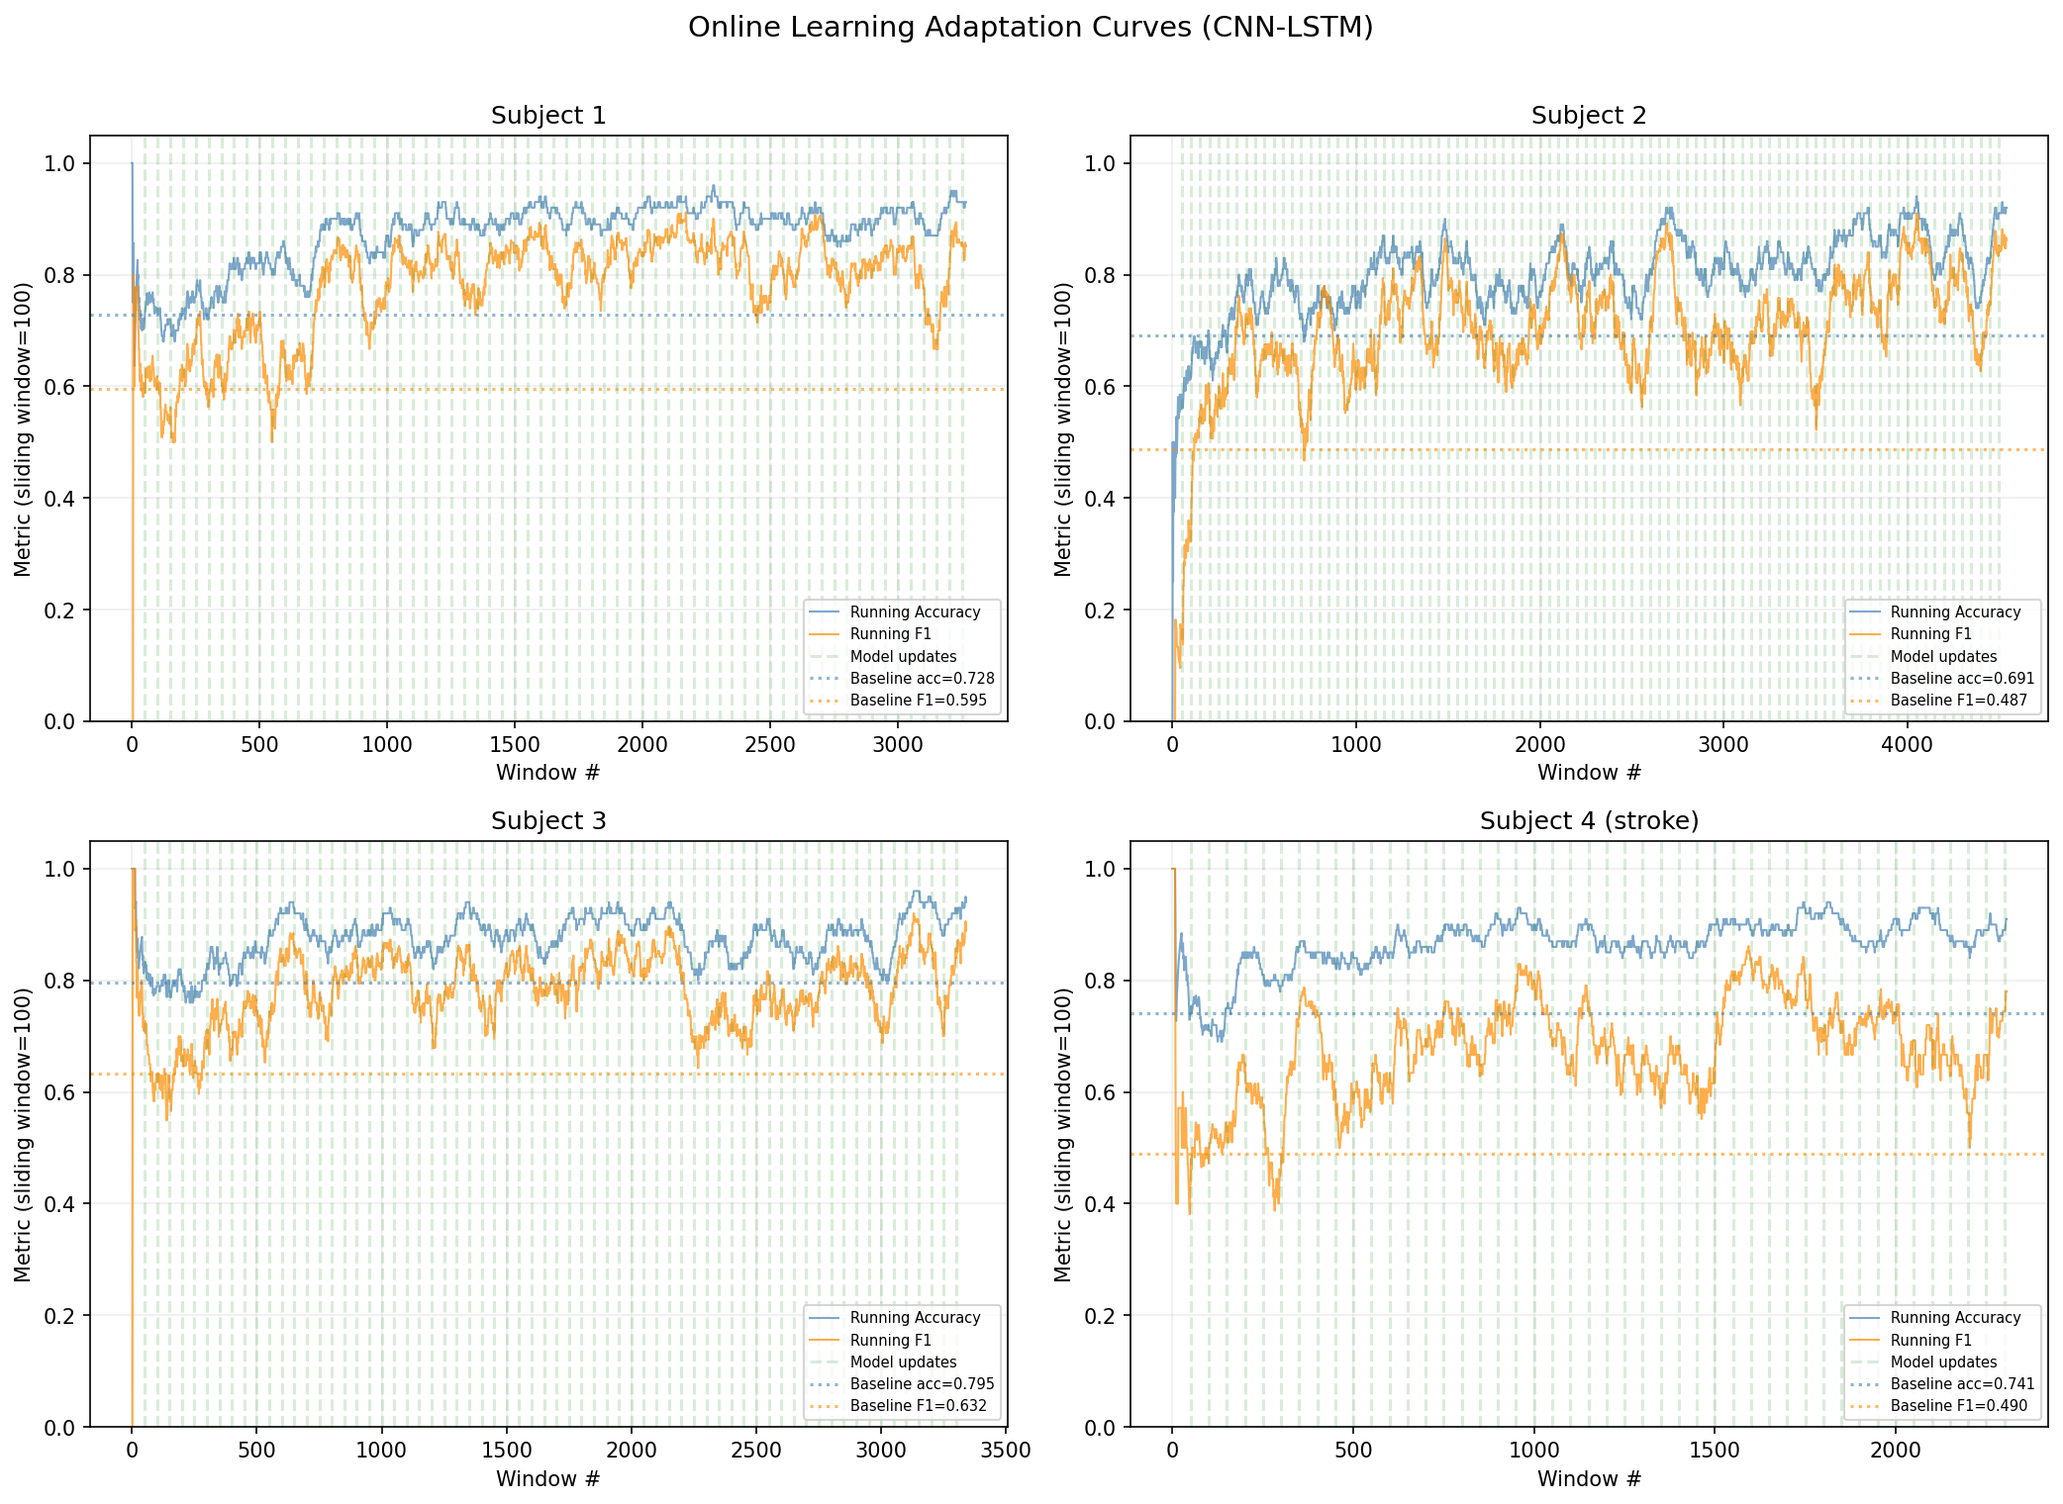
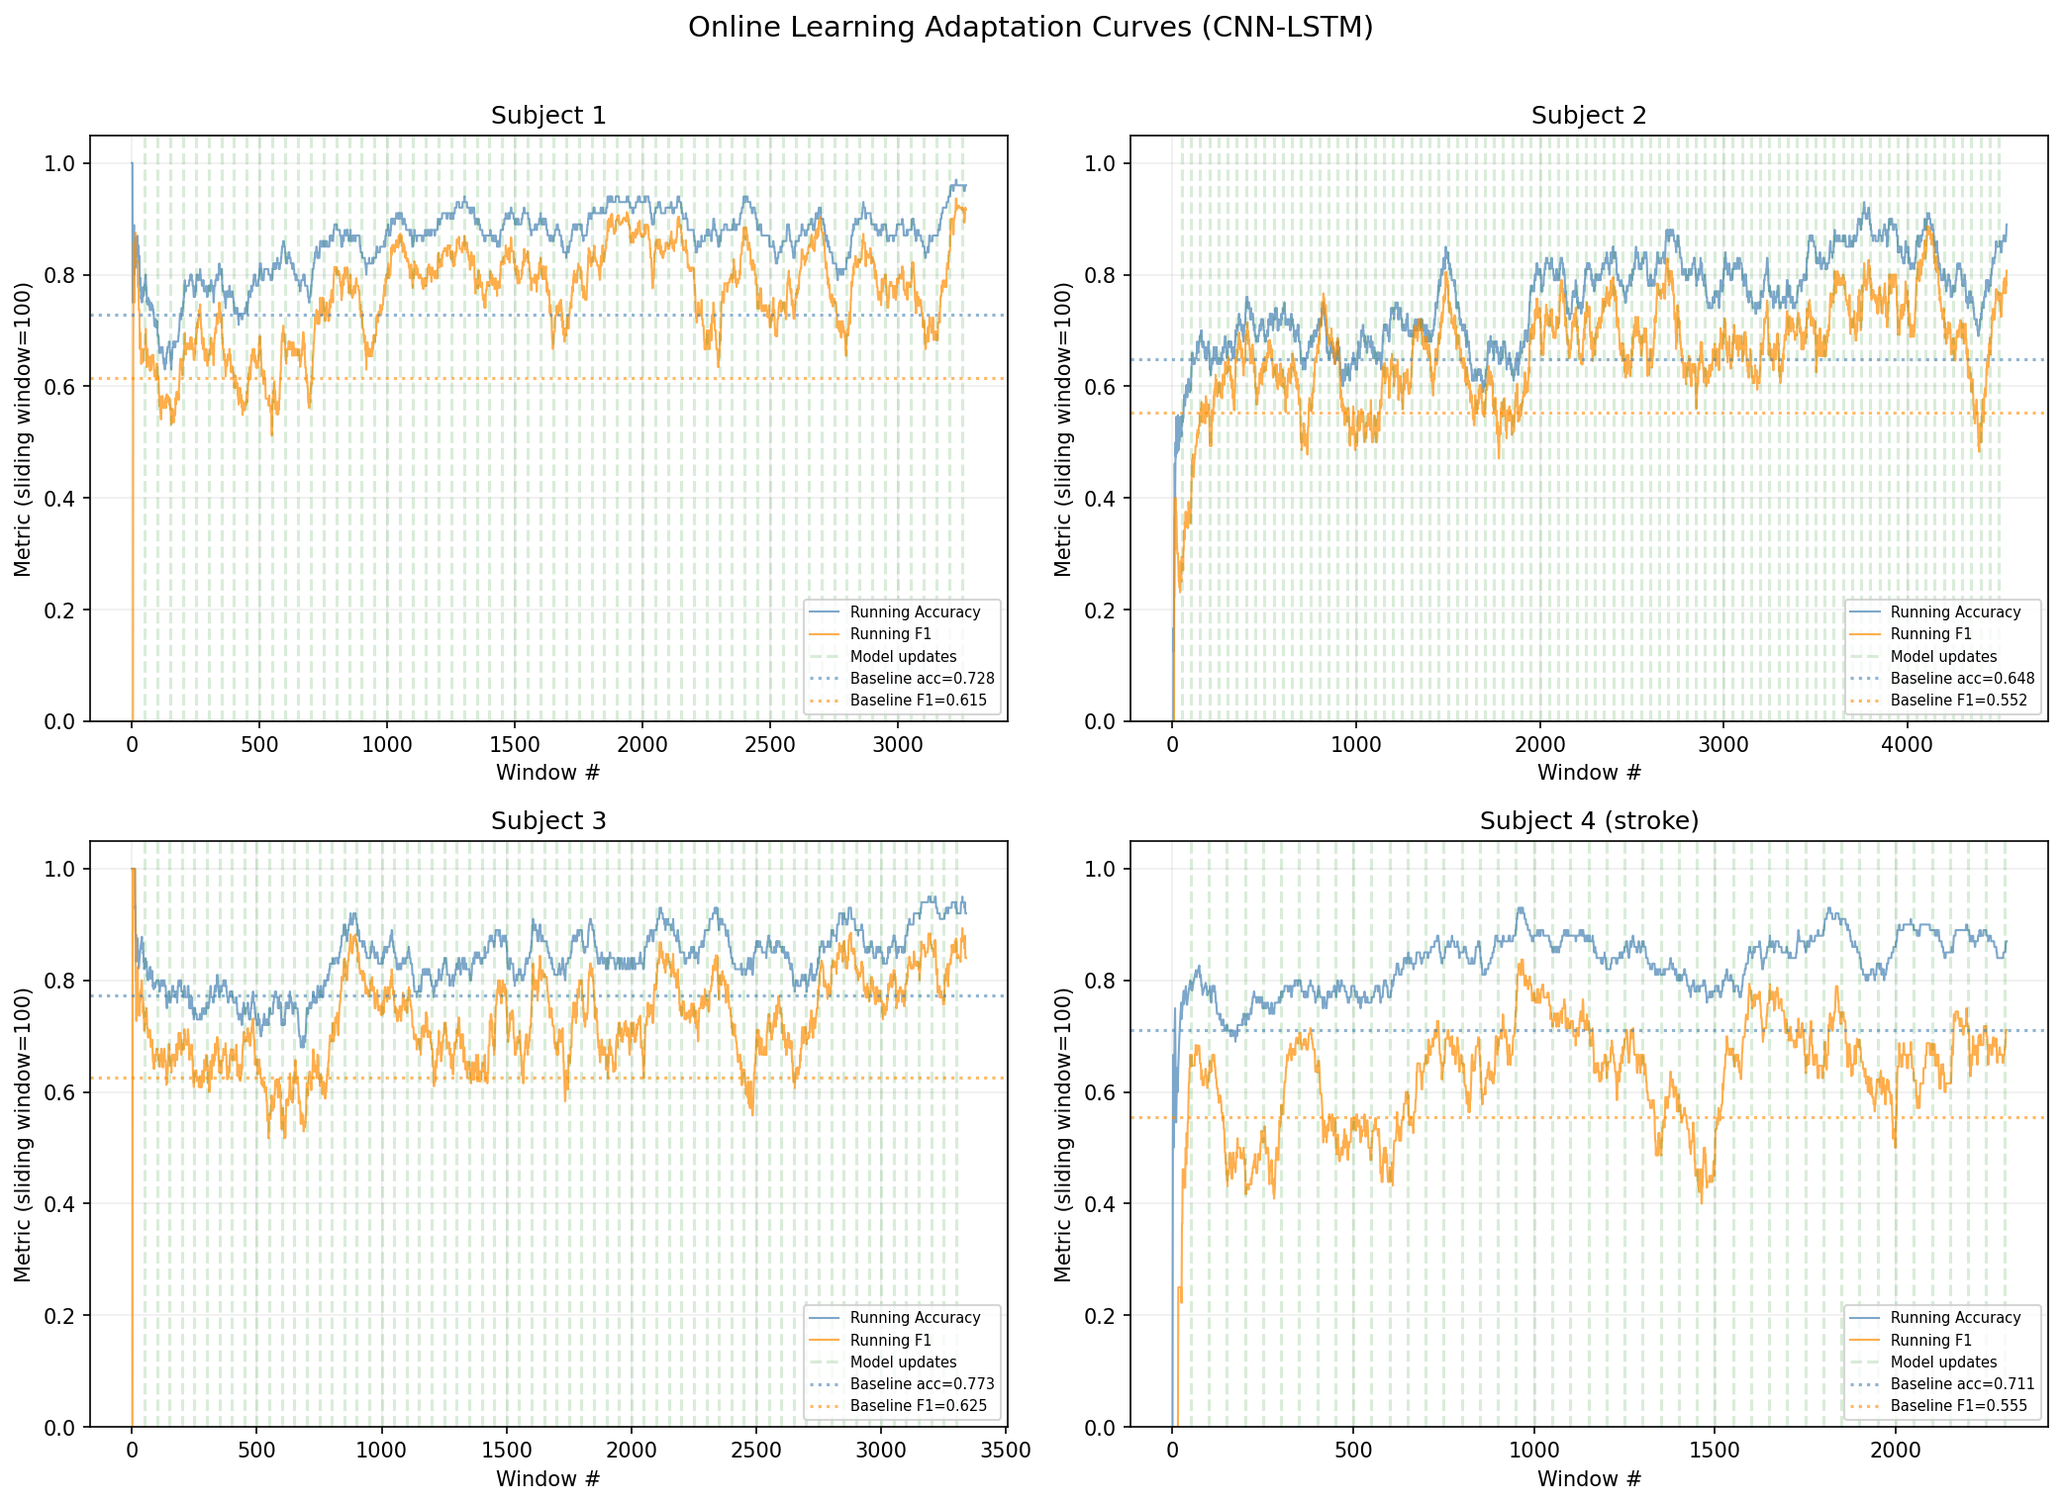
optimize inference/training loops, vectorize threshold search, and add time tracking/reporting

diff --git a/online_learning_cnn_lstm.py b/online_learning_cnn_lstm.py
@@ -10,9 +10,24 @@ import matplotlib
 matplotlib.use('Agg')
 import matplotlib.pyplot as plt
 import os
+import time
 
 os.environ['TF_CPP_MIN_LOG_LEVEL'] = '2'
 tf.get_logger().setLevel('ERROR')
+
+os.environ['CUDA_VISIBLE_DEVICES'] = '-1'
+tf.config.set_visible_devices([], 'GPU')
+
+# # def check_gpu():
+# #     gpus = tf.config.list_physical_devices('GPU')
+# #     if gpus:
+# #         print(f'  GPU detected: {gpus[0].name}')
+# #         for gpu in gpus:
+# #             tf.config.experimental.set_memory_growth(gpu, True)
+# #     else:
+# #         print('  WARNING: No GPU detected. Install tensorflow-macos and tensorflow-metal')
+# #         print('           for Apple Silicon acceleration.')
+# #     return len(gpus) > 0
 
 
 def load_data(path='labeled data 4 subjects.mat'):
@@ -21,6 +36,7 @@ def load_data(path='labeled data 4 subjects.mat'):
     for i in range(4):
         d = mat['data'][0, i]
         l = mat['labels'][0, i].flatten().astype(int)
+        # mat file nests each window in a cell array, have to unpack per-element
         sX.append(np.array([d[j, 0] for j in range(d.shape[0])]))
         sy.append(l)
     return sX, sy
@@ -42,11 +58,18 @@ def build_cnn_lstm(input_shape=(100, 8)):
 
 
 def cw(y):
-    # max(..., 1) guards against zero-division when a class is absent in small buffers
+    # max 1 to avoid zero-div when a class is missing in tiny buffers
     n0 = max(np.sum(y == 0), 1)
     n1 = max(np.sum(y == 1), 1)
     t = len(y)
     return {0: t / (2 * n0), 1: t / (2 * n1)}
+
+
+def fmt_time(seconds):
+    if seconds < 60:
+        return f'{seconds:.1f}s'
+    m, s = divmod(int(seconds), 60)
+    return f'{m}m {s:02d}s'
 
 
 def train_base(X_tr, y_tr, X_val, y_val, seed=42):
@@ -55,7 +78,8 @@ def train_base(X_tr, y_tr, X_val, y_val, seed=42):
     m = build_cnn_lstm()
     m.compile(optimizer=tf.keras.optimizers.Adam(1e-3),
               loss='binary_crossentropy', metrics=['accuracy'])
-    m.fit(X_tr, y_tr, epochs=50, batch_size=64,
+    # 256 batch ok on m2 pro 16gb, cuts base training time ~in half vs 64
+    m.fit(X_tr, y_tr, epochs=50, batch_size=256,
           validation_data=(X_val, y_val),
           class_weight=cw(y_tr),
           callbacks=[callbacks.EarlyStopping('val_loss', patience=10,
@@ -83,8 +107,8 @@ class OnlineLearner:
         self.preds, self.trues, self.probs_list = [], [], []
         self.update_pts = []
 
-        # only freeze the first conv+bn block — these learn general emg time-series
-        # features that should transfer across subjects; deeper layers are more subject-specific
+        # freeze conv1+bn1 only — they pick up generic emg features,
+        # deeper layers need to adapt per-subject
         if freeze_early:
             for layer in model.layers:
                 if layer.name in ('conv1', 'bn1'):
@@ -95,7 +119,7 @@ class OnlineLearner:
     def run(self, X, y, seed=0):
         rng = np.random.RandomState(seed)
         n = len(X)
-        # windows are randomized per prof. lum — chronological order wasn't preserved in this dataset
+        # prof lum confirmed chronological order wasn't preserved in this dataset
         order = rng.permutation(n)
         Xs, ys = X[order], y[order]
 
@@ -109,7 +133,8 @@ class OnlineLearner:
 
             bX, by = Xs[s:e], ys[s:e]
 
-            bp = self.model.predict(bX, verbose=0).flatten()
+            # direct call bypasses predict() overhead (progress bars, dataset creation etc)
+            bp = self.model(tf.constant(bX, dtype=tf.float32), training=False).numpy().flatten()
             bpred = (bp > self.threshold).astype(int)
 
             self.preds.extend(bpred.tolist())
@@ -130,8 +155,8 @@ class OnlineLearner:
         X = np.array(self.buf_X)
         y = np.array(self.buf_y)
 
-        # 60/40 recency split is a heuristic — prioritize recent windows without fully
-        # discarding older ones, since the model still needs them to avoid forgetting
+        # 60/40 recency split — heuristic to prioritize recent windows
+        # without fully forgetting older ones
         if len(X) > self.buf_cap:
             recent_n = int(self.buf_cap * 0.6)
             old_n = self.buf_cap - recent_n
@@ -141,22 +166,37 @@ class OnlineLearner:
             idx = np.concatenate([old_idx, recent_idx])
             X, y = X[idx], y[idx]
 
-        self.model.fit(X, y, epochs=self.ft_epochs,
-                       batch_size=min(self.ft_bs, len(X)),
-                       class_weight=cw(y), verbose=0)
+        # train_on_batch instead of fit() — avoids epoch setup latency
+        # on these tiny ~300 sample buffers
+        weights = cw(y)
+        sample_weights = np.where(y == 1, weights[1], weights[0]).astype(np.float32)
+        X_t = tf.constant(X, dtype=tf.float32)
+        y_t = tf.constant(y, dtype=tf.float32)
+        sw_t = tf.constant(sample_weights, dtype=tf.float32)
+        for _ in range(self.ft_epochs):
+            self.model.train_on_batch(X_t, y_t, sample_weight=sw_t)
 
     def _opt_thresh(self):
         X = np.array(self.buf_X[-self.buf_cap:])
         y = np.array(self.buf_y[-self.buf_cap:])
-        ps = self.model.predict(X, verbose=0).flatten()
-        best_f1, best_t = 0, 0.5
-        # search range [0.15, 0.85] — avoids degenerate thresholds that collapse
-        # predictions to all-one or all-zero on heavily imbalanced subjects
-        for t in np.arange(0.15, 0.85, 0.02):
-            f = f1_score(y, (ps > t).astype(int), zero_division=0)
-            if f > best_f1:
-                best_f1, best_t = f, t
-        self.threshold = best_t
+        ps = self.model(tf.constant(X, dtype=tf.float32), training=False).numpy().flatten()
+
+        # [0.15, 0.85] avoids degenerate thresholds that collapse to all-one/all-zero
+        # on heavily imbalanced subjects
+        thresholds = np.arange(0.15, 0.85, 0.02)
+        preds_all = (ps[np.newaxis, :] > thresholds[:, np.newaxis]).astype(int)
+        y_broad = y[np.newaxis, :]
+
+        tp = np.sum((preds_all == 1) & (y_broad == 1), axis=1).astype(float)
+        fp = np.sum((preds_all == 1) & (y_broad == 0), axis=1).astype(float)
+        fn = np.sum((preds_all == 0) & (y_broad == 1), axis=1).astype(float)
+        precision = np.where(tp + fp > 0, tp / (tp + fp), 0.0)
+        recall = np.where(tp + fn > 0, tp / (tp + fn), 0.0)
+        f1s = np.where(precision + recall > 0,
+                       2 * precision * recall / (precision + recall), 0.0)
+
+        best_idx = np.argmax(f1s)
+        self.threshold = thresholds[best_idx]
 
     def _results(self):
         p, t = np.array(self.preds), np.array(self.trues)
@@ -193,6 +233,11 @@ class OnlineLearner:
 def run_experiment(subjects_X, subjects_y, config, n_seeds=3):
     results = {}
     subject_labels = ['healthy', 'healthy', 'healthy', 'stroke']
+    total_subjects = 4
+    total_steps = total_subjects * (1 + n_seeds)
+    current_step = 0
+    exp_start = time.time()
+    step_times = []
 
     for ts in range(4):
         name = f'Subject {ts+1}'
@@ -207,33 +252,53 @@ def run_experiment(subjects_X, subjects_y, config, n_seeds=3):
         print(f'  Train: {len(y_tr)} windows ({np.sum(y_tr==1)} pos, {np.sum(y_tr==0)} neg)')
         print(f'  Test:  {len(y_te)} windows ({np.sum(y_te==1)} pos, {np.sum(y_te==0)} neg)')
 
+        step_start = time.time()
         print('  Training base model...', end=' ', flush=True)
-        # using X_te as val during base training is intentional — it's the held-out subject,
-        # so this just monitors generalization without affecting the loso split
+        # X_te as val is intentional — it's the held-out subject so this just
+        # monitors generalization, doesn't leak into the loso split
         base = train_base(X_tr, y_tr, X_te, y_te, seed=42)
-        bp = base.predict(X_te, verbose=0).flatten()
+        bp = base(tf.constant(X_te, dtype=tf.float32), training=False).numpy().flatten()
         bpred = (bp > 0.5).astype(int)
         b_acc = accuracy_score(y_te, bpred)
         b_f1 = f1_score(y_te, bpred, zero_division=0)
         b_rec = recall_score(y_te, bpred, zero_division=0)
         b_prec = precision_score(y_te, bpred, zero_division=0)
-        print(f'done.  Baseline: acc={b_acc:.4f}, F1={b_f1:.4f}, '
+        step_elapsed = time.time() - step_start
+        step_times.append(step_elapsed)
+        current_step += 1
+        elapsed = time.time() - exp_start
+        avg_step = elapsed / current_step
+        remaining = avg_step * (total_steps - current_step)
+        print(f'done ({fmt_time(step_elapsed)}).  Baseline: acc={b_acc:.4f}, F1={b_f1:.4f}, '
               f'prec={b_prec:.4f}, rec={b_rec:.4f}')
+        print(f'  [Time] Elapsed: {fmt_time(elapsed)} | '
+              f'Est. remaining: {fmt_time(remaining)} | '
+              f'Step {current_step}/{total_steps}')
 
         seeds = []
         for seed in range(n_seeds):
+            step_start = time.time()
             fresh = build_cnn_lstm()
             fresh.build((None, 100, 8))
             fresh.set_weights(base.get_weights())
             learner = OnlineLearner(fresh, **config)
             r = learner.run(X_te, y_te, seed=seed)
             seeds.append(r)
+            step_elapsed = time.time() - step_start
+            step_times.append(step_elapsed)
+            current_step += 1
+            elapsed = time.time() - exp_start
+            avg_step = elapsed / current_step
+            remaining = avg_step * (total_steps - current_step)
             print(f'  Seed {seed}: overall acc={r["overall"]["acc"]:.4f}, '
                   f'F1={r["overall"]["f1"]:.4f} | '
                   f'Q4 acc={r["q4"]["acc"]:.4f}, F1={r["q4"]["f1"]:.4f} | '
                   f'2nd-half acc={r["second_half"]["acc"]:.4f}, '
                   f'F1={r["second_half"]["f1"]:.4f} | '
-                  f'thresh={r["threshold"]:.2f}')
+                  f'thresh={r["threshold"]:.2f} ({fmt_time(step_elapsed)})')
+            print(f'  [Time] Elapsed: {fmt_time(elapsed)} | '
+                  f'Est. remaining: {fmt_time(remaining)} | '
+                  f'Step {current_step}/{total_steps}')
 
         avg = lambda key, sub='overall': np.mean([s[sub][key] for s in seeds])
         print(f'\n  Avg online overall:  acc={avg("acc"):.4f}, F1={avg("f1"):.4f}')
@@ -249,7 +314,7 @@ def run_experiment(subjects_X, subjects_y, config, n_seeds=3):
             'tag': tag,
         }
 
-    return results
+    return results, time.time() - exp_start
 
 
 def print_summary(results):
@@ -294,7 +359,8 @@ def plot_curves(results, path='online_learning_curves.png'):
 
     for idx, (sub, r) in enumerate(results.items()):
         ax = axes[idx // 2][idx % 2]
-        sr = r['seeds'][0]  # only plotting seed 0 for visual clarity; metrics table uses all seeds
+        # seed 0 only for plot — metrics table already averages all seeds
+        sr = r['seeds'][0]
         x = np.arange(len(sr['run_acc']))
 
         ax.plot(x, sr['run_acc'], alpha=0.7, label='Running Accuracy',
@@ -325,10 +391,115 @@ def plot_curves(results, path='online_learning_curves.png'):
     print(f'\nPlot saved: {path}')
 
 
+def generate_report(results, total_time, path='online_learning_report.png'):
+    fig = plt.figure(figsize=(12, 10))
+    fig.patch.set_facecolor('white')
+
+    font_family = 'Times New Roman'
+
+    fig.text(0.5, 0.97, 'Summary',
+             ha='center', va='top', fontsize=18, fontweight='bold',
+             color='#1a1a2e', fontfamily=font_family)
+    fig.text(0.5, 0.945, f'Total training time: {fmt_time(total_time)}',
+             ha='center', va='top', fontsize=11, color='#555555',
+             fontfamily=font_family)
+
+    col_labels = ['Subject', 'Type', 'Base Acc', 'Base F1',
+                  'Online Acc', 'Online F1', 'Q4 F1', '\u0394F1']
+    table_data = []
+    ba_all, bf_all, oa_all, of_all, qf_all = [], [], [], [], []
+
+    for idx, (sub, r) in enumerate(results.items()):
+        ba, bf = r['baseline']['acc'], r['baseline']['f1']
+        oa = np.mean([s['overall']['acc'] for s in r['seeds']])
+        of_ = np.mean([s['overall']['f1'] for s in r['seeds']])
+        qf = np.mean([s['q4']['f1'] for s in r['seeds']])
+        delta = qf - bf
+        table_data.append([
+            sub, r['tag'].capitalize(),
+            f'{ba:.4f}', f'{bf:.4f}',
+            f'{oa:.4f}', f'{of_:.4f}',
+            f'{qf:.4f}', f'{delta:+.4f}'
+        ])
+        ba_all.append(ba); bf_all.append(bf)
+        oa_all.append(oa); of_all.append(of_)
+        qf_all.append(qf)
+
+    avg_delta = np.mean(qf_all) - np.mean(bf_all)
+    table_data.append([
+        'Average', '',
+        f'{np.mean(ba_all):.4f}', f'{np.mean(bf_all):.4f}',
+        f'{np.mean(oa_all):.4f}', f'{np.mean(of_all):.4f}',
+        f'{np.mean(qf_all):.4f}', f'{avg_delta:+.4f}'
+    ])
+
+    ax_table = fig.add_axes([0.05, 0.55, 0.9, 0.35])
+    ax_table.axis('off')
+    table = ax_table.table(cellText=table_data, colLabels=col_labels,
+                           loc='center', cellLoc='center')
+    table.auto_set_font_size(False)
+    table.set_fontsize(10)
+    table.scale(1.0, 1.6)
+
+    for _, cell in table.get_celld().items():
+        cell.get_text().set_fontfamily(font_family)
+
+    for j in range(len(col_labels)):
+        cell = table[0, j]
+        cell.set_facecolor('#1a1a2e')
+        cell.set_text_props(color='white', fontweight='bold')
+
+    last_row = len(table_data)
+    for j in range(len(col_labels)):
+        cell = table[last_row, j]
+        cell.set_facecolor('#e8e8e8')
+        cell.set_text_props(fontweight='bold')
+
+    for i in range(1, len(table_data) + 1):
+        val = float(table_data[i-1][-1])
+        cell = table[i, len(col_labels)-1]
+        if val > 0:
+            cell.set_text_props(color='#2d8a4e')
+        elif val < 0:
+            cell.set_text_props(color='#c0392b')
+
+    row_y = [0.30, 0.04]
+    axes_curves = []
+    for idx in range(4):
+        ax = fig.add_axes([0.07 + (idx % 2) * 0.48, row_y[idx // 2], 0.42, 0.20])
+        axes_curves.append(ax)
+
+    for idx, (sub, r) in enumerate(results.items()):
+        ax = axes_curves[idx]
+        sr = r['seeds'][0]
+        x = np.arange(len(sr['run_acc']))
+        ax.plot(x, sr['run_acc'], alpha=0.7, color='steelblue', linewidth=0.8, label='Acc')
+        ax.plot(x, sr['run_f1'], alpha=0.7, color='darkorange', linewidth=0.8, label='F1')
+        ax.axhline(y=r['baseline']['f1'], color='darkorange', linestyle=':', alpha=0.5, linewidth=0.8)
+        ax.axhline(y=r['baseline']['acc'], color='steelblue', linestyle=':', alpha=0.5, linewidth=0.8)
+        tag = f' ({r["tag"]})' if r['tag'] == 'stroke' else ''
+        ax.set_title(f'{sub}{tag}', fontsize=9, fontweight='bold', fontfamily=font_family)
+        ax.set_ylim(0, 1.05)
+        ax.set_xlabel('Window #', fontsize=7, fontfamily=font_family)
+        ax.tick_params(labelsize=7)
+        ax.grid(True, alpha=0.15)
+        if idx == 0:
+            ax.legend(fontsize=7, loc='lower right')
+
+    plt.savefig(path, dpi=150, bbox_inches='tight', facecolor='white')
+    print(f'Report saved: {path}')
+
+
 if __name__ == '__main__':
+    total_start = time.time()
+
     print('='*60)
     print('  Online Learning CNN-LSTM — Hand Exoskeleton Intent Detection')
     print('='*60)
+
+    # print('\nChecking GPU...')
+    # check_gpu()
+    print('\nRunning on CPU only.')
 
     print('\nLoading data...')
     sX, sy = load_data()
@@ -351,6 +522,11 @@ if __name__ == '__main__':
     for k, v in config.items():
         print(f'  {k}: {v}')
 
-    results = run_experiment(sX, sy, config, n_seeds=3)
+    results, experiment_time = run_experiment(sX, sy, config, n_seeds=3)
+
+    total_time = time.time() - total_start
+    print(f'\n  Total execution time: {fmt_time(total_time)}')
+
     print_summary(results)
     plot_curves(results)
+    generate_report(results, total_time)
